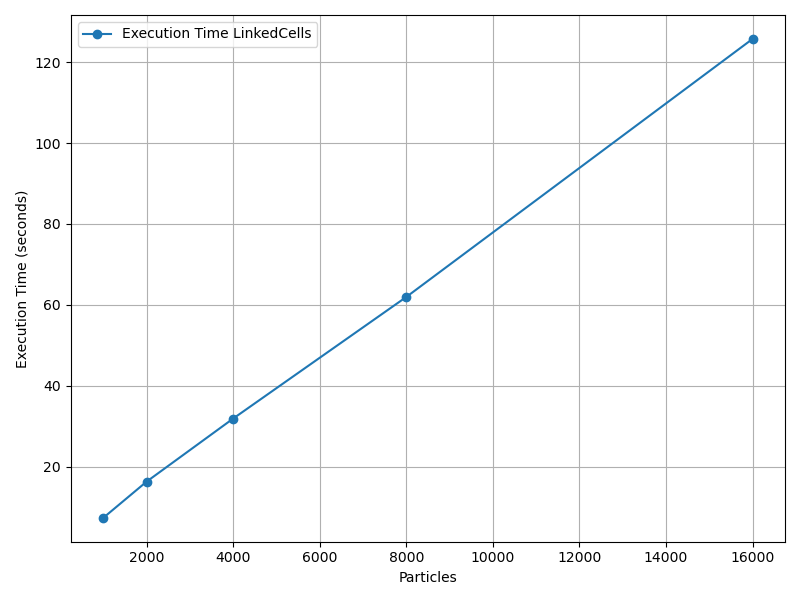
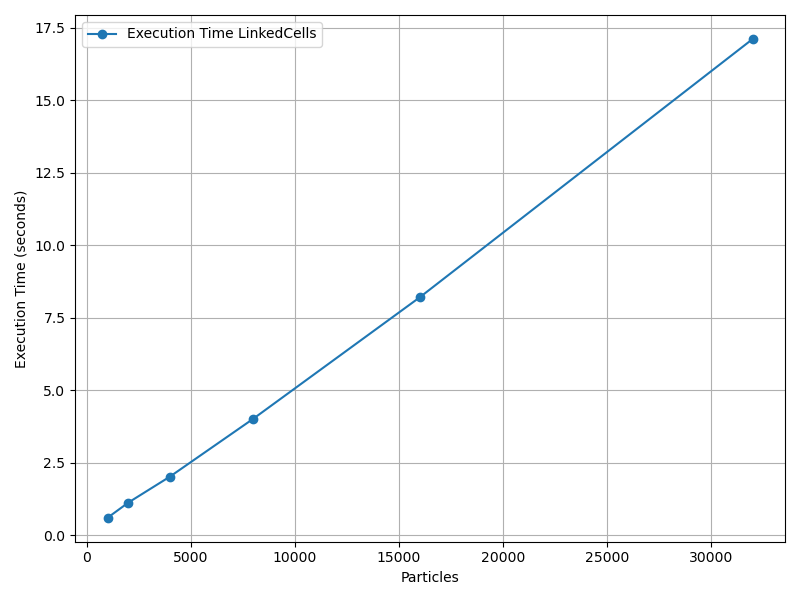
make Benchmark cmake parameter, add cubes for testing and adjust python script

diff --git a/benchmark/benchmark.py b/benchmark/benchmark.py
@@ -79,7 +79,7 @@ def run_and_plot(a_values):
              marker='o',
              label="Execution Time LinkedCells")
     plt.title(
-        "Execution Time vs number of particles running on Intel i7 13700H, 32Gb")
+        "Execution Time vs number of particles running on Intel i7 13700H, 32Gb with domain=(300,300,1) and $r_cutoff = 3.0")
     plt.xlabel("Particles")
     plt.ylabel("Execution Time (seconds)")
     #plt.xscale('log',base=2)
@@ -110,5 +110,5 @@ def run_and_plot_lc(a_values):
     plt.show()
 
 
-# run_and_plot_lc([1, 2, 4, 8, 16])
-run_and_plot([1,2,4,8])
+run_and_plot_lc([1, 2, 4, 8, 16, 32])
+# run_and_plot([1,2,4,8])

diff --git a/src/MolSim.cpp b/src/MolSim.cpp
@@ -87,7 +87,7 @@ int main(const int argc, char* argv[]) {
   const auto start_time = std::chrono::high_resolution_clock::now();
   while (current_time <= arguments.t_end) {
     verlet_integrator.step(*container);
-    /*
+#ifndef BENCHMARK
     if (current_time >= next_output_time) {
       plotParticles(outputDirectory, iteration, writer, *container);
       writes++;
@@ -111,7 +111,7 @@ int main(const int argc, char* argv[]) {
       }
 
     }
-    */
+#endif
     iteration++;
     current_time = arguments.delta_t * iteration;
   }
